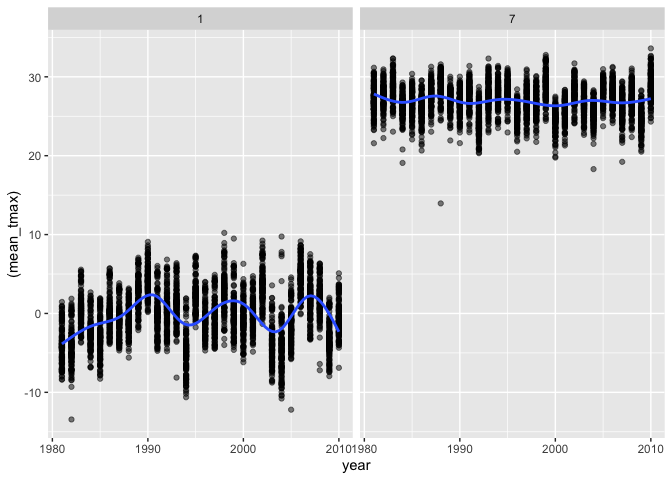
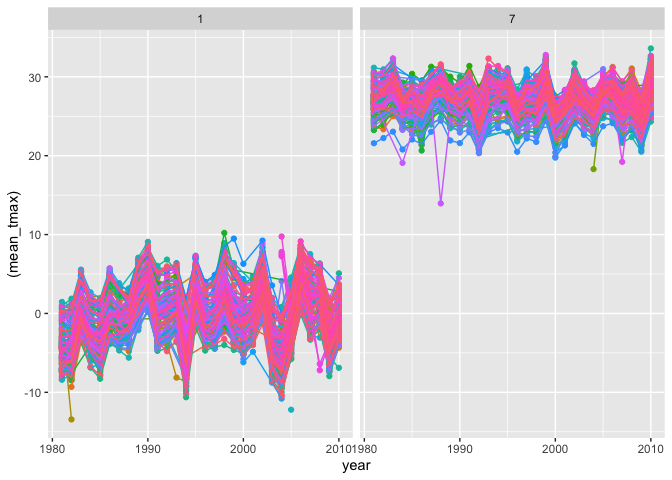
updated questions 2 and 3

Changed region(s): [[0.0625, 0.4688, 0.5312, 0.875], [0.5312, 0.0938, 1.0, 0.375], [0.625, 0.4062, 0.6562, 0.4375]]

diff --git a/p8105_hw3_si2426.md b/p8105_hw3_si2426.md
@@ -7,26 +7,31 @@ p8105_homework 3
 #### Loading and Cleaning Data
 
 ``` r
-accel_df = read_csv("./data/accel_data.csv") %>% janitor::clean_names() %>% pivot_longer(-c(week, day_id, day), names_to = "minute", values_to = "activity_counts") %>% mutate(minute = as.integer(gsub('[activity_]', '', minute))) %>% mutate(weekday_v_weekend = ifelse(day == "Saturday" | day == "Sunday", "Weekend", "Weekday")) %>% mutate(day = factor(day, levels = c("Sunday", "Monday", "Tuesday", "Wednesday", "Thursday", "Friday", "Saturday")), weekday_v_weekend = as.factor(weekday_v_weekend))
+accel_df = read_csv("./data/accel_data.csv") %>% janitor::clean_names() %>% pivot_longer(-c(week, day_id, day), names_to = "minute", values_to = "activity_counts") %>% mutate(minute = as.integer(gsub('[activity_]', '', minute))) %>% mutate(weekday_v_weekend = ifelse(day == "Saturday" | day == "Sunday", "Weekend", "Weekday")) %>% mutate(day = factor(day, levels = c("Monday", "Tuesday", "Wednesday", "Thursday", "Friday", "Saturday", "Sunday")), weekday_v_weekend = as.factor(weekday_v_weekend)) %>% arrange(week, day) %>% group_by(week, day) %>% mutate(day_number = cur_group_id())
 ```
 
-In order to clean the data, we first cleaned the named using
-`janitor::clean_names()`. We then used `pivot_longer` to tidy the data
-and create a row for each observation (each minute was given an entry in
-the newly created `minute` variable). The corresponding activity count
-values were added to the `activity_counts` variable. We then removed the
-“activity\_” prefix in the `minute` variable to have a integer variable
-that only contained the numeric values of the minutes. A
-`weekday_v_weekend` variable was created to distinguish between the
+In order to clean the data, the variable names were cleaned using
+`janitor::clean_names()`. The function `pivot_longer()` was used to tidy
+the data and create a row for each observation (each minute was given an
+entry in the newly created `minute` variable). The corresponding
+activity count values were added to the `activity_counts` variable. The
+“activity\_” prefix in the `minute` variable were removed to have a
+integer variable that only contained the numeric values of the minutes.
+A `weekday_v_weekend` variable was created to distinguish between the
 types of days. The `day` variable was coerced into a factor variable
-based on the days of the week, starting with Sunday. The resulting
-dataset contains 50400 observations (one minute for each of the 35
-days). The dataset contains the following variables: `week` to represent
-the week number, `day_id` to represent the day number (ranging from 1 to
-35), `day` variable to represent the day of the week, `minute` to
-represent which minute of the day, `activity_counts` to represent the
-activity at that specific minute, and `weekday_v_weekend` to represent
-the type of day. The mean activity count per minute was 267.044.
+based on the days of the week, starting with Monday. The dataset was
+then arranged by `week` and `day` order, meaning the first day would be
+the Monday in week 1 which is followed by the Tuesday in week 1 (this
+was done as the original dataset did not have the days ordered correctly
+within each week). A new variable called `day_number` was created to
+list and number the days in sequential order. The resulting dataset
+contains 50400 observations (one minute for each of the 35 days). The
+dataset contains the following variables: `week` to represent the week
+number, `day_id` to represent the day number (ranging from 1 to 35),
+`day` variable to represent the day of the week, `minute` to represent
+which minute of the day, `activity_counts` to represent the activity at
+that specific minute, and `weekday_v_weekend` to represent the type of
+day. The mean activity count per minute was 267.044.
 
 #### Total Activity Over the Days
 
@@ -35,67 +40,68 @@ total activity per day.
 
 ``` r
 total_activity_df = accel_df %>%
-  group_by(day_id, day) %>%
+  group_by(day_number, week, day) %>%
   summarize(total_activity = sum(activity_counts))
 
 total_activity_df %>%
   knitr::kable(digits = 2)
 ```
 
-| day_id | day       | total_activity |
-|-------:|:----------|---------------:|
-|      1 | Friday    |      480542.62 |
-|      2 | Monday    |       78828.07 |
-|      3 | Saturday  |      376254.00 |
-|      4 | Sunday    |      631105.00 |
-|      5 | Thursday  |      355923.64 |
-|      6 | Tuesday   |      307094.24 |
-|      7 | Wednesday |      340115.01 |
-|      8 | Friday    |      568839.00 |
-|      9 | Monday    |      295431.00 |
-|     10 | Saturday  |      607175.00 |
-|     11 | Sunday    |      422018.00 |
-|     12 | Thursday  |      474048.00 |
-|     13 | Tuesday   |      423245.00 |
-|     14 | Wednesday |      440962.00 |
-|     15 | Friday    |      467420.00 |
-|     16 | Monday    |      685910.00 |
-|     17 | Saturday  |      382928.00 |
-|     18 | Sunday    |      467052.00 |
-|     19 | Thursday  |      371230.00 |
-|     20 | Tuesday   |      381507.00 |
-|     21 | Wednesday |      468869.00 |
-|     22 | Friday    |      154049.00 |
-|     23 | Monday    |      409450.00 |
-|     24 | Saturday  |        1440.00 |
-|     25 | Sunday    |      260617.00 |
-|     26 | Thursday  |      340291.00 |
-|     27 | Tuesday   |      319568.00 |
-|     28 | Wednesday |      434460.00 |
-|     29 | Friday    |      620860.00 |
-|     30 | Monday    |      389080.00 |
-|     31 | Saturday  |        1440.00 |
-|     32 | Sunday    |      138421.00 |
-|     33 | Thursday  |      549658.00 |
-|     34 | Tuesday   |      367824.00 |
-|     35 | Wednesday |      445366.00 |
+| day_number | week | day       | total_activity |
+|-----------:|-----:|:----------|---------------:|
+|          1 |    1 | Monday    |       78828.07 |
+|          2 |    1 | Tuesday   |      307094.24 |
+|          3 |    1 | Wednesday |      340115.01 |
+|          4 |    1 | Thursday  |      355923.64 |
+|          5 |    1 | Friday    |      480542.62 |
+|          6 |    1 | Saturday  |      376254.00 |
+|          7 |    1 | Sunday    |      631105.00 |
+|          8 |    2 | Monday    |      295431.00 |
+|          9 |    2 | Tuesday   |      423245.00 |
+|         10 |    2 | Wednesday |      440962.00 |
+|         11 |    2 | Thursday  |      474048.00 |
+|         12 |    2 | Friday    |      568839.00 |
+|         13 |    2 | Saturday  |      607175.00 |
+|         14 |    2 | Sunday    |      422018.00 |
+|         15 |    3 | Monday    |      685910.00 |
+|         16 |    3 | Tuesday   |      381507.00 |
+|         17 |    3 | Wednesday |      468869.00 |
+|         18 |    3 | Thursday  |      371230.00 |
+|         19 |    3 | Friday    |      467420.00 |
+|         20 |    3 | Saturday  |      382928.00 |
+|         21 |    3 | Sunday    |      467052.00 |
+|         22 |    4 | Monday    |      409450.00 |
+|         23 |    4 | Tuesday   |      319568.00 |
+|         24 |    4 | Wednesday |      434460.00 |
+|         25 |    4 | Thursday  |      340291.00 |
+|         26 |    4 | Friday    |      154049.00 |
+|         27 |    4 | Saturday  |        1440.00 |
+|         28 |    4 | Sunday    |      260617.00 |
+|         29 |    5 | Monday    |      389080.00 |
+|         30 |    5 | Tuesday   |      367824.00 |
+|         31 |    5 | Wednesday |      445366.00 |
+|         32 |    5 | Thursday  |      549658.00 |
+|         33 |    5 | Friday    |      620860.00 |
+|         34 |    5 | Saturday  |        1440.00 |
+|         35 |    5 | Sunday    |      138421.00 |
 
 It can be noted that, according to the table, the man’s activity levels
 were the lowest on the fourth and fifth Saturdays. On these days, his
-activity count were valued at 1440. These values were much lower than
-the mean activity level per day, which was approximately 384543. In
-order to study the patterns of activity level each day more effectively,
-we will create a scatterplot using `day_id` as our x-axis and
-`total_activity` as our y-axis. We will use `geom_smooth` to estimate a
-conditional mean to study how the the activity level changes across the
-5 weeks.
+activity count were valued at 1440. This could indicate some type of
+reporting error; however, this will need to be investigated further.
+These values were much lower than the mean activity level per day, which
+was approximately 384543. In order to study the patterns of activity
+level each day more effectively, a scatterplot using `day_id` as the
+x-axis and `total_activity` as the y-axis will be created. `geom_smooth`
+will be used to study how the the activity level changes across the 5
+weeks.
 
 ``` r
-ggplot(total_activity_df, aes(x = day_id, y = total_activity)) + 
+ggplot(total_activity_df, aes(x = day_number, y = total_activity)) + 
   geom_point(aes(color = day)) +
   geom_smooth(se = FALSE) +  labs(
     title = "Total Activity Plot",
-    x = "Day ID",
+    x = "Day Number",
     y = "Total Activity Per Day",
   )
 ```
@@ -103,18 +109,18 @@ ggplot(total_activity_df, aes(x = day_id, y = total_activity)) +
 ![](p8105_hw3_si2426_files/figure-gfm/unnamed-chunk-3-1.png)<!-- -->
 Viewing the plot, it is apparent that the individual was gradually
 increasing his activity levels until the second week, after which his
-activity levels decreased. This continued until around the fourth week
-when his activity levels began to increase again. The plot also confirms
-that the individual had his lowest activity levels on the fourth and
-fifth Saturdays.
+activity levels decreased. This continued until around the third week
+when it continued to remain stable. It should be noted that there are
+several outliers, such as the fourth and fifth Saturdays, which have
+much lower activity levels than the other days.
 
 #### Activity Over the Course of the Day
 
 ``` r
 accel_hour_df = accel_df %>% 
   mutate(hour = floor(minute/60)) %>% 
-  group_by(hour, day, day_id) %>% 
-  summarize(hourly_total = sum(activity_counts)) %>% arrange(day_id)
+  group_by(hour, day, day_number) %>% 
+  summarize(hourly_total = sum(activity_counts)) %>% arrange(day_number)
 
 accel_hour_plot = ggplot(accel_hour_df, aes(x = hour, y = hourly_total)) + 
   geom_point(aes(color = day)) +
@@ -142,11 +148,7 @@ accel_min_plot + accel_hour_plot
 ``` r
 library(p8105.datasets)
 data("ny_noaa")
-
-sum(is.na(ny_noaa$date))
 ```
-
-    ## [1] 0
 
 The data contains 2595176 observations. The dataset contains variables
 such as `id`, `date`, `prcp` to represent the precipitation, `snow` to
@@ -183,10 +185,11 @@ snow were recorded.
 ``` r
 ny_noaa_df_jan_jul = ny_noaa_df %>% filter(month == 1 | month == 7) %>% group_by(id, month, year) %>% drop_na(tmax) %>% summarize(mean_tmax = mean(tmax, na.rm = FALSE))
 
-ggplot(ny_noaa_df_jan_jul, aes(x = year, y = (mean_tmax))) + 
-  geom_point(alpha = .5) +
-  geom_smooth(se = FALSE) + 
-  facet_grid(. ~month)
+ggplot(ny_noaa_df_jan_jul, aes(x = year, y = (mean_tmax), color = id )) + 
+  geom_point() +
+  geom_line() + 
+  facet_grid(. ~month) +   
+  theme(legend.position = "none")
 ```
 
 ![](p8105_hw3_si2426_files/figure-gfm/unnamed-chunk-7-1.png)<!-- --> \#
